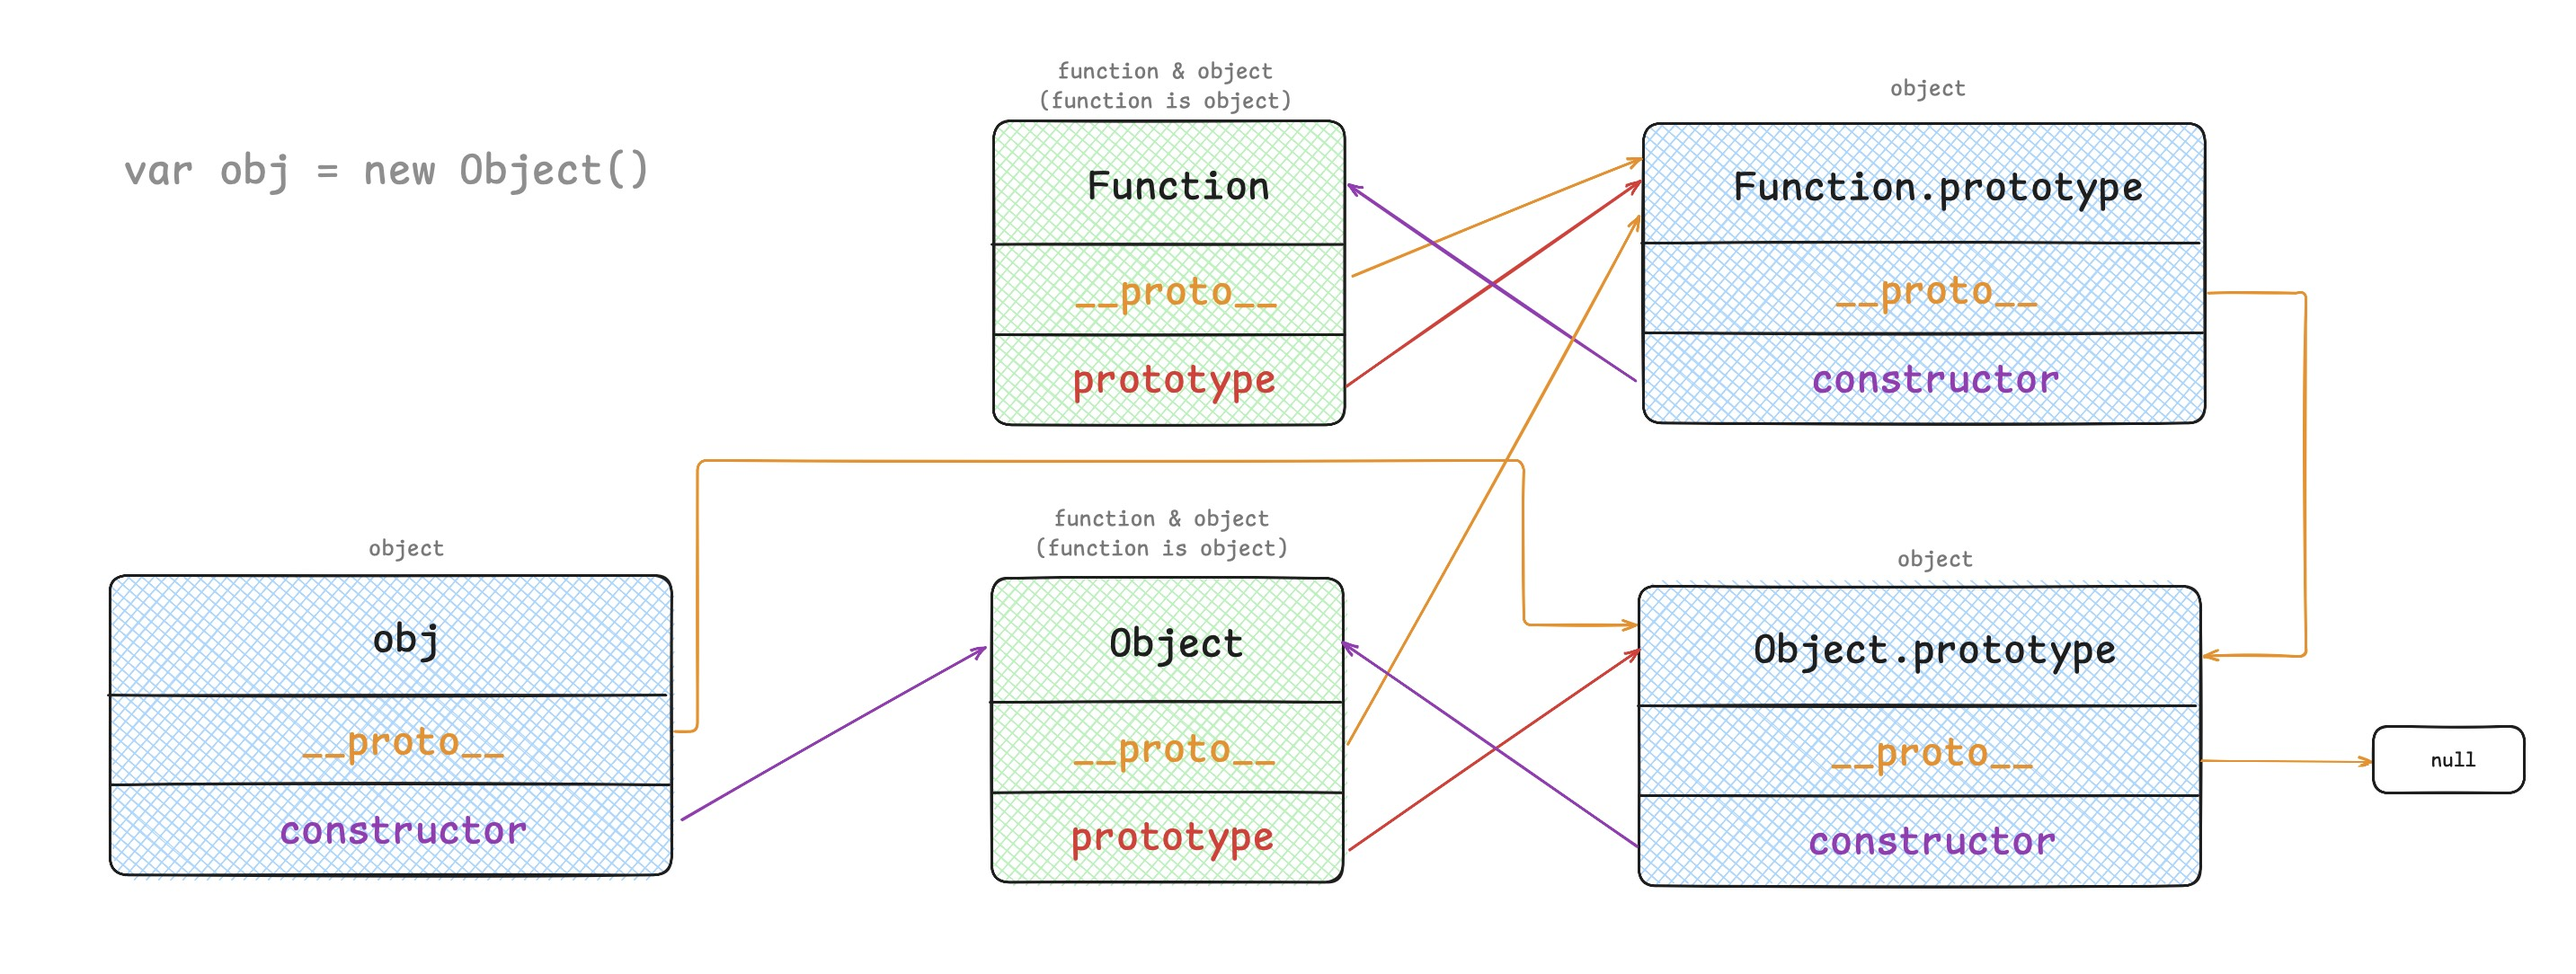
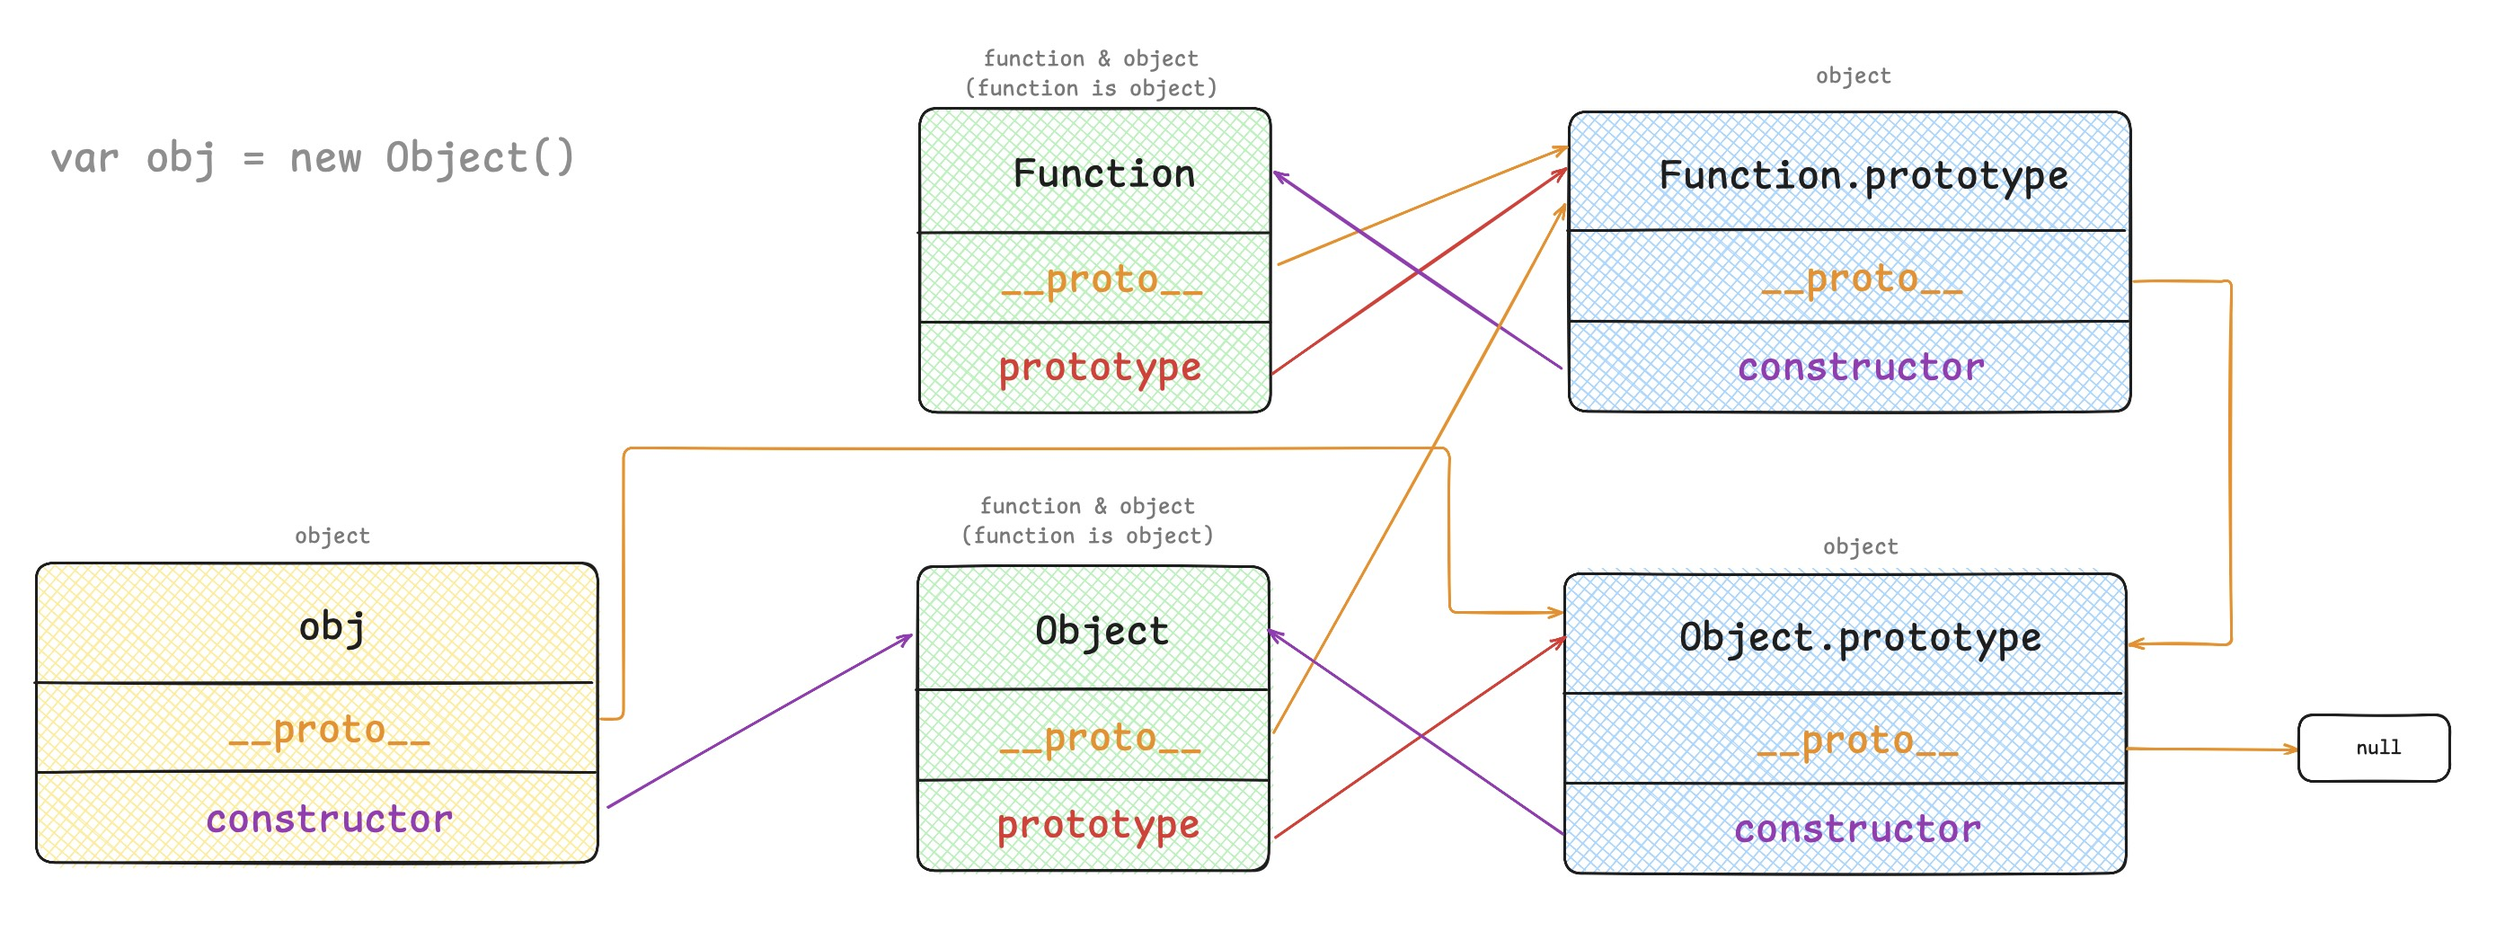
no message

diff --git a/_posts/2025-04-27-js-proto-chain.md b/_posts/2025-04-27-js-proto-chain.md
@@ -77,5 +77,11 @@ tags: [FrontEnd, Web, Javascript, Javascript]
 
 ![js-proto-chain]({{ "/assets/images/2025-04-27/obj-fun.jpg" | absolute url }})
 
-- 图 2:
+- 图 2 (加入 obj):
   ![js-proto-chain]({{ "/assets/images/2025-04-27/obj-fun-1.jpg" | absolute url }})
+
+- 图 3 (加入 Foo):
+  ![js-proto-chain]({{ "/assets/images/2025-04-27/obj-fun-2.jpg" | absolute url }})
+
+- 图 3 (加入 foo):
+  ![js-proto-chain]({{ "/assets/images/2025-04-27/obj-fun-2.jpg" | absolute url }})
